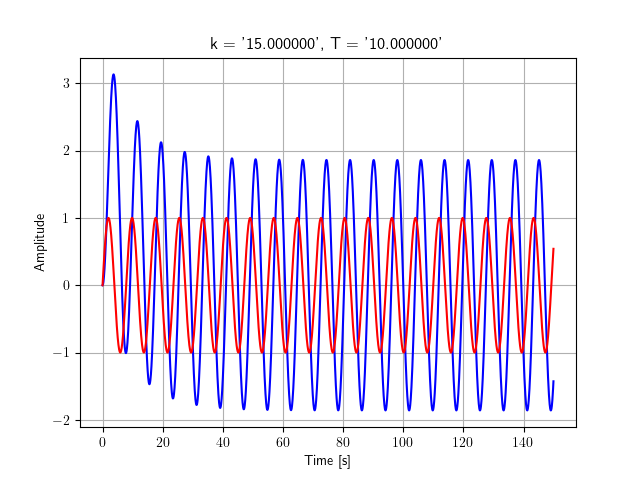
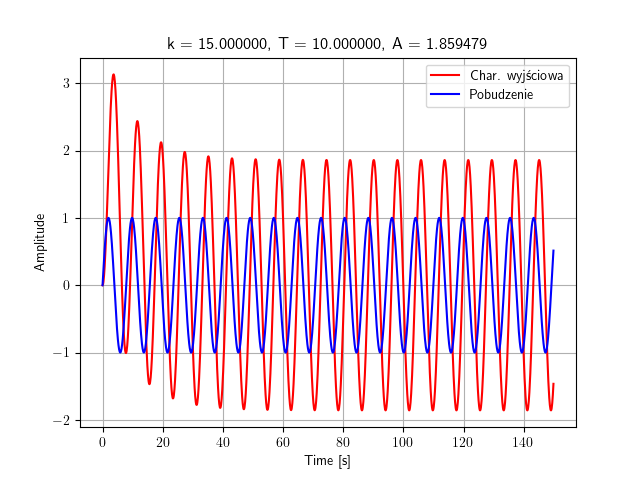
Improved 2nd script, added frequency response

Changed region(s): [[0.1562, 0.1562, 0.875, 0.875], [0.3125, 0.0625, 0.9062, 0.25]]

diff --git a/lab2.py b/lab2.py
@@ -17,26 +17,45 @@ w0 = 0.8
 t = list()
 y = list()
 x = list()
-
-time = np.linspace(0., 150., num=2500, endpoint=False)
+A = list()
+w = list()
+time = np.linspace(0., 150., num=1500, endpoint=False)
 u = np.sin(w0 * time)
 
-print(K)
+# print(K)
 
 for i in range(len(K)):
     plt.figure(i)
     tp, yp, xp = signal.lsim(K[i], T=time, U=u)
+    
     t.append(tp)
     y.append(yp)
     x.append(xp)
+    A.append((yp[1000:].max() - yp[1000:].min()) / 2)
 
-    plt.plot(t[i], y[i], 'b')
-    plt.plot(t[i], u, 'r')
+    # w.append(abs(z1 - z0) / np.pi)
+
+    plt.plot(t[i], y[i], 'r', label='Char. wyjściowa')
+    plt.plot(t[i], u, 'b', label='Pobudzenie')
     plt.xlabel('Time [s]')
     plt.ylabel('Amplitude')
-    plt.title("k = '%f', T = '%f'" %(k[i], T[i]))
+    plt.title(r"k = %f, T = %f, A = %f " %(k[i], T[i], A[i]))
     plt.grid()
+    plt.legend()
     plt.savefig('lab2_docs/figure%d.png' % i)
+
+P = k[3] / (T[3] * w0 * 1j  + 1) 
+
+plt.figure(len(K))
+w, H = signal.freqresp(K[3])
+plt.plot(H.real, H.imag, "b", label="Charakterystyka")
+plt.plot(P.real, P.imag, "r", marker = "o", markersize=10, label=r"Punkt odp. pulsacji $\omega_0 $")
+plt.xlabel('Re')
+plt.ylabel('Im')
+plt.legend()
+plt.grid()
+plt.title(r"char. amplitudowo-fazowa układu nr 4, punkt: $ \omega_0 = %f + %fj $" %(P.real, P.imag))
+plt.savefig('lab2_docs/figure%d.png' % (len(K)))
 
 for i in plt.get_fignums():
     plt.show()
